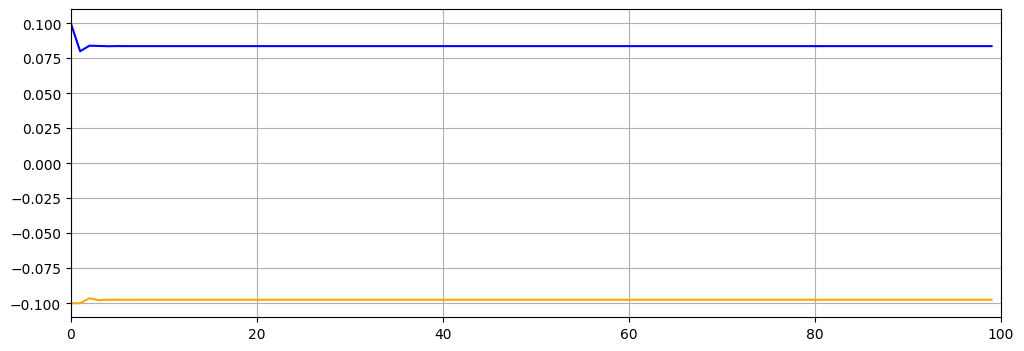
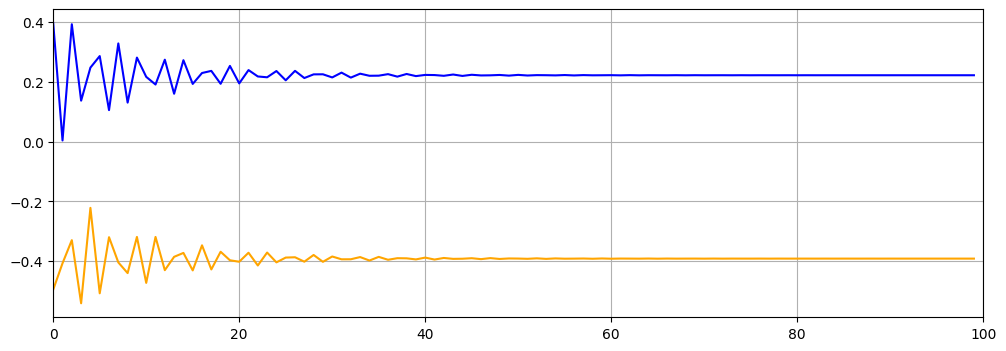
Update doc: periodicity checking

diff --git a/doc/periodicity-checking.md b/doc/periodicity-checking.md
@@ -1,8 +1,83 @@
 # Periodicity checking
 
-TODO
+"Periodicity checking" is a performace optimisation techniche used in fractal image generation. This techniche is used to reduce the number of calculations needed to calculate a pixel in the image, therefore reducing the time to generate the full fractal image. For the classic way of generating a Mandelbrot Set image you need to calculate a series of values applying the Mandelbrot formula recursively.
 
-Types of orbits:
+The basic Mandelbrot Set formula is:
+
+`f(z) = z² + c`
+
+In order to generate a fractal image a complex point on the plane is assigned to a pixel in the image.
+
+![Orbit tends to a fixed point](img/mandelbrot-graph.png)
+
+For a very basic color map (black color inside the fractal and white color outside) you need to find out if the complex number belongs to the Mandelbrot Set. A complex number belongs to the Mandelbrot Set when using that point as `c` variable in the basic formula and applying the formula recursively the series does not diverge.
+
+If you color points inside with black you get something like:
+
+![Mandelbrot Set Black on White 1024 pixels](img/mandelbrot-black-on-white-1024.png)
+
+We can calculate some points for that picture. For example, the complex number (0,0) belongs to the Set and this is the series:
+
+```math
+z = (0,0)
+c = (0,0)
+
+f0 = 0
+f1 = 0
+f2 = 0
+f3 = 0
+f4 = 0
+f5 = 0
+f6 = 0
+...
+```
+
+Obviously the series does not tend to infinite.
+
+Point (0,i) also belongs to the Set:
+
+```math
+z = (0,0)
+c = (0,i)
+
+x0 = z² + c = (0,0)² + (0,i)
+x0 =  0 + 1i
+x1 = -1 + 1i
+x2 =  0 - 1i
+x3 = -1 + 1i
+x4 =  0 - 1i
+x5 = -1 + 1i
+...
+```
+
+This series values are: i, -1, -i, -1, -i, -1, ...
+
+This is the [orbit for c = (0,i)]((https://mandelbrot-set-periods.online/api/orbits?zx=0&zy=1)):
+![Orbit goes to infinite](img/orbit-i.png)
+Orange is the real part and blue the imaginary part.
+
+Point (0,2i) not belonging to the Set:
+
+```math
+z = (0,0)
+c = (-1,0)
+
+x0 = 0
+x1 = 2i
+x2 = -4 + 2i
+x3 = 12 - 14i
+x4 = -52 - 334i
+x5 = BIG (meaning far from the origin)
+x6 = BIGGER
+```
+
+This is the [orbit for c = (0,2i)]((https://mandelbrot-set-periods.online/api/orbits?zx=0&zy=2)):
+![Orbit goes to infinite](img/orbit-2i.png)
+Orange is the real part and blue the imaginary part.
+
+We always start with `z = 0` and that's called the orbit of `0` under iteration of `z² + c`. Under iteration of `f(z) = z² + c`, either the orbit of `0` goes to infinity, or it does not. The Mandelbrot Set represents the Set of complex numbers whose fate for the orbit of `0` under iteration of `f(z) = z² + c` does not diverge, that's to say it does tend to infinite.
+
+When the orbit does not go to infinity, it may behave in different ways. It may be fixed or cyclic or behave chaotically. This is the list of possible behaviors:
 
 * Tends to a fixed point (inside)
 * Chaotic behavior (inside)
@@ -10,24 +85,79 @@ Types of orbits:
 * Period n (inside)
 * Go to infinite (outside)
 
-In the plots below, we have displayed the iteration series for `z² + c` for the orbit of 0, with different orbits types.
+"Periodicity Checking" tecniche consist on detecting the cycles when we are calculating the orbit for a point `c`, that way we can stop iterations, becuase we know that the series is not going to diverge.
 
-Point (-0.1,0.1), tends to a fixed point:
+In the plots below, we have displayed the iteration series for `z² + c` for the orbit of `0`, with different orbits periods. You can see two different graph types: real and imaginary vales and orbit lines (lines beetween the points in the series).
+
+Point (-0.495,0.396), tends to a fixed point (period 1):
 ![Orbit tends to a fixed point](img/orbit-period-1.png)
+<https://mandelbrot-set-periods.online/api/orbits?zx=-0.495&zy=0.396>
+![Orbit tends to a fixed point](img/orbit-period-1-lines.png)
 
-Point (0,1), period 2:  
+Point (-1.101,0.100), period 2:  
 ![Orbit with cycle of period 2](img/orbit-period-2.png)
+<https://mandelbrot-set-periods.online/api/orbits?zx=-1.101&zy=0.100>
+![Orbit tends to a fixed point](img/orbit-period-2-lines.png)
 
-Point (-0.1,0.7), period 3  
+Point (-0.100,0.764), period 3:
 ![Orbit with cycle of period 3](img/orbit-period-3.png)
+<https://mandelbrot-set-periods.online/api/orbits?zx=-0.100&zy=0.764>
+![Orbit with cycle of period 3](img/orbit-period-3-lines.png)
 
-Point (-1.3,0), period 4:  
+Point (0.286,0.538), period 4:
 ![Orbit with cycle of period 4](img/orbit-period-4.png)
+<https://mandelbrot-set-periods.online/api/orbits?zx=0.286&zy=0.538>
+![Orbit with cycle of period 4](img/orbit-period-4-lines.png)
 
-Mandelbrot coloured with periodicities:
+Point (-0.506,0.566), period 5:
+![Orbit with cycle of period 4](img/orbit-period-5.png)
+<https://mandelbrot-set-periods.online/api/orbits?zx=-0.506&zy=0.566>
+![Orbit with cycle of period 4](img/orbit-period-5-lines.png)
+
+As you can see points inside the set have orbits which are trapped inside the limits of the Mandelbrot Set. You can use this site to see the orbits with lines:
+
+<http://www.stefanbion.de/fraktal-generator/mandeliteration.htm>
+
+Or this one:
+
+<https://mandelbrot-set-periods.online>
+
+which is a Mandelbrot Periods Explorer.
+
+If you want to know the cycle length for the different bulbs (a bulb is a cardioid or circle section of the Mandelbrot Set), this is how it looks like:
+
 ![Orbit with cycle of period 4](img/mandelbrot-set–periodicities-coloured.png)
 
+There are different algorithms for cycle detection. One of them is the Brent's algorithm. You can find an implementation here: <https://github.com/josecelano/c-mandelbrot-arbitrary-precision/blob/master/src/cycle-detection/brent.c>
+
+One of the properties of this cycles is the more you are closer to the fractal border the more iterations you need to became a stable cycle. You also need to increase the tolerance to detect cycles, that means cycles are not pure, the repeated values is not exactly the same.
+
+If fact this application is not able to detect correctly all the periods. If you want to contribute there is an open issue:
+
+<https://github.com/josecelano/c-mandelbrot-arbitrary-precision/issues/2>
+
+There are some fixed and hardcoded values for minimum number of iterations before checkinng periodicity, the period tolerance and the maximum number of interations. Those values should be calculated dinamically depending on the area, zoom, or other parameters of the image you are rendering.
+
+We have not found a formula for that. We think most of the formulas out there are not exact. And we think it's not posible to find a formula for that in order to draw a perfect Mandelbrot Set with colored periods. This is the best approximation we have been able to generate:
+
+![Mandelbrot Set image with colored periods using the C console tile generator](img/mandelbrot-colored-periods-1024.png)
+
+## Acknowledgements
+
+Two articles where spaceilly useful for us to understand periods in MandelbBrot Set. In fact, we would say this article explanation is very similar to the one by Robert L. Devaney, simply adding more graphs.
+
+* [Julien Clinton Sprott](http://sprott.physics.wisc.edu/chaos/manchaos.htm)
+* [Robert L. Devaney](http://math.bu.edu/DYSYS/FRACGEOM/node1.html#SECTION00010000000000000000)
+
 ## Links
+
+Period checking explanations:
+
+1. [Basic explanation](https://en.wikipedia.org/wiki/Talk:Mandelbrot_set#Periodicity_checking)
+2. [Mandelbrot Set Chaos](http://sprott.physics.wisc.edu/chaos/manchaos.htm)
+3. [What is the period of the "primary bulbs"](http://math.bu.edu/DYSYS/explorer/tour6.html)
+4. [Periods of the Bulbs](http://math.bu.edu/DYSYS/FRACGEOM/node3.html#SECTION00030000000000000000)
+5. [Iterations](http://math.bu.edu/DYSYS/FRACGEOM/node1.html#SECTION00010000000000000000)
 
 Cycle detection:
 
@@ -37,8 +167,32 @@ Cycle detection:
 4. [Explanation about the orbit detection technique](https://mrob.com/pub/muency/orbitdetection.html)
 5. [Short explanation about the periodicity checking technique](https://en.wikipedia.org/wiki/Talk:Mandelbrot_set#Periodicity_checking)
 6. [How Fractint software implemented it](https://web.archive.org/web/20150220012221/http://www.reocities.com/CapeCanaveral/5003/mandel.htm)
+7. [Orbit detection](https://mrob.com/pub/muency/orbitdetection.html)
 
 Sample implementations:
 
 1. [C implementation using Gnofract 4d](https://github.com/HyveInnovate/gnofract4d/blob/master/examples/cpp/custom_mandelbrot_formula.c#L356-L389)
 2. [Another C implementation with arbitrary precision](https://github.com/josch/mandelbrot/blob/master/mandel_mpfr.c#L109-L133)
+3. [Java implementation](https://en.wikipedia.org/wiki/User:Simpsons_contributor/periodicity_checking)
+
+Orbit visualization:
+
+1. [Draw orbit with lines between point in the series](http://www.stefanbion.de/fraktal-generator/mandeliteration.htm)
+
+Math:
+
+1. [Periodic points of complex quadratic mappings](https://en.wikipedia.org/wiki/Periodic_points_of_complex_quadratic_mappings)
+2. [How to find periodic points for given period](https://en.wikibooks.org/wiki/Fractals/Iterations_in_the_complex_plane/periodic_points#How_to_find_periodic_points_for_given_period?)
+3. [Paper: The size of Mandelbrot bulbs](https://www.sciencedirect.com/science/article/pii/S259005441930017X)
+
+Wiki/Books:
+
+1. [WikiBook about fractals](https://en.wikibooks.org/wiki/Fractals)
+
+Images:
+
+1. [Mandelbrot Set with periodicities coloured](https://upload.wikimedia.org/wikipedia/commons/0/0e/Mandelbrot_Set_%E2%80%93_Periodicities_coloured.png)
+
+Software using perdiodicity checking:
+
+1. [Gnofract 4D](https://github.com/fract4d/gnofract4d)
